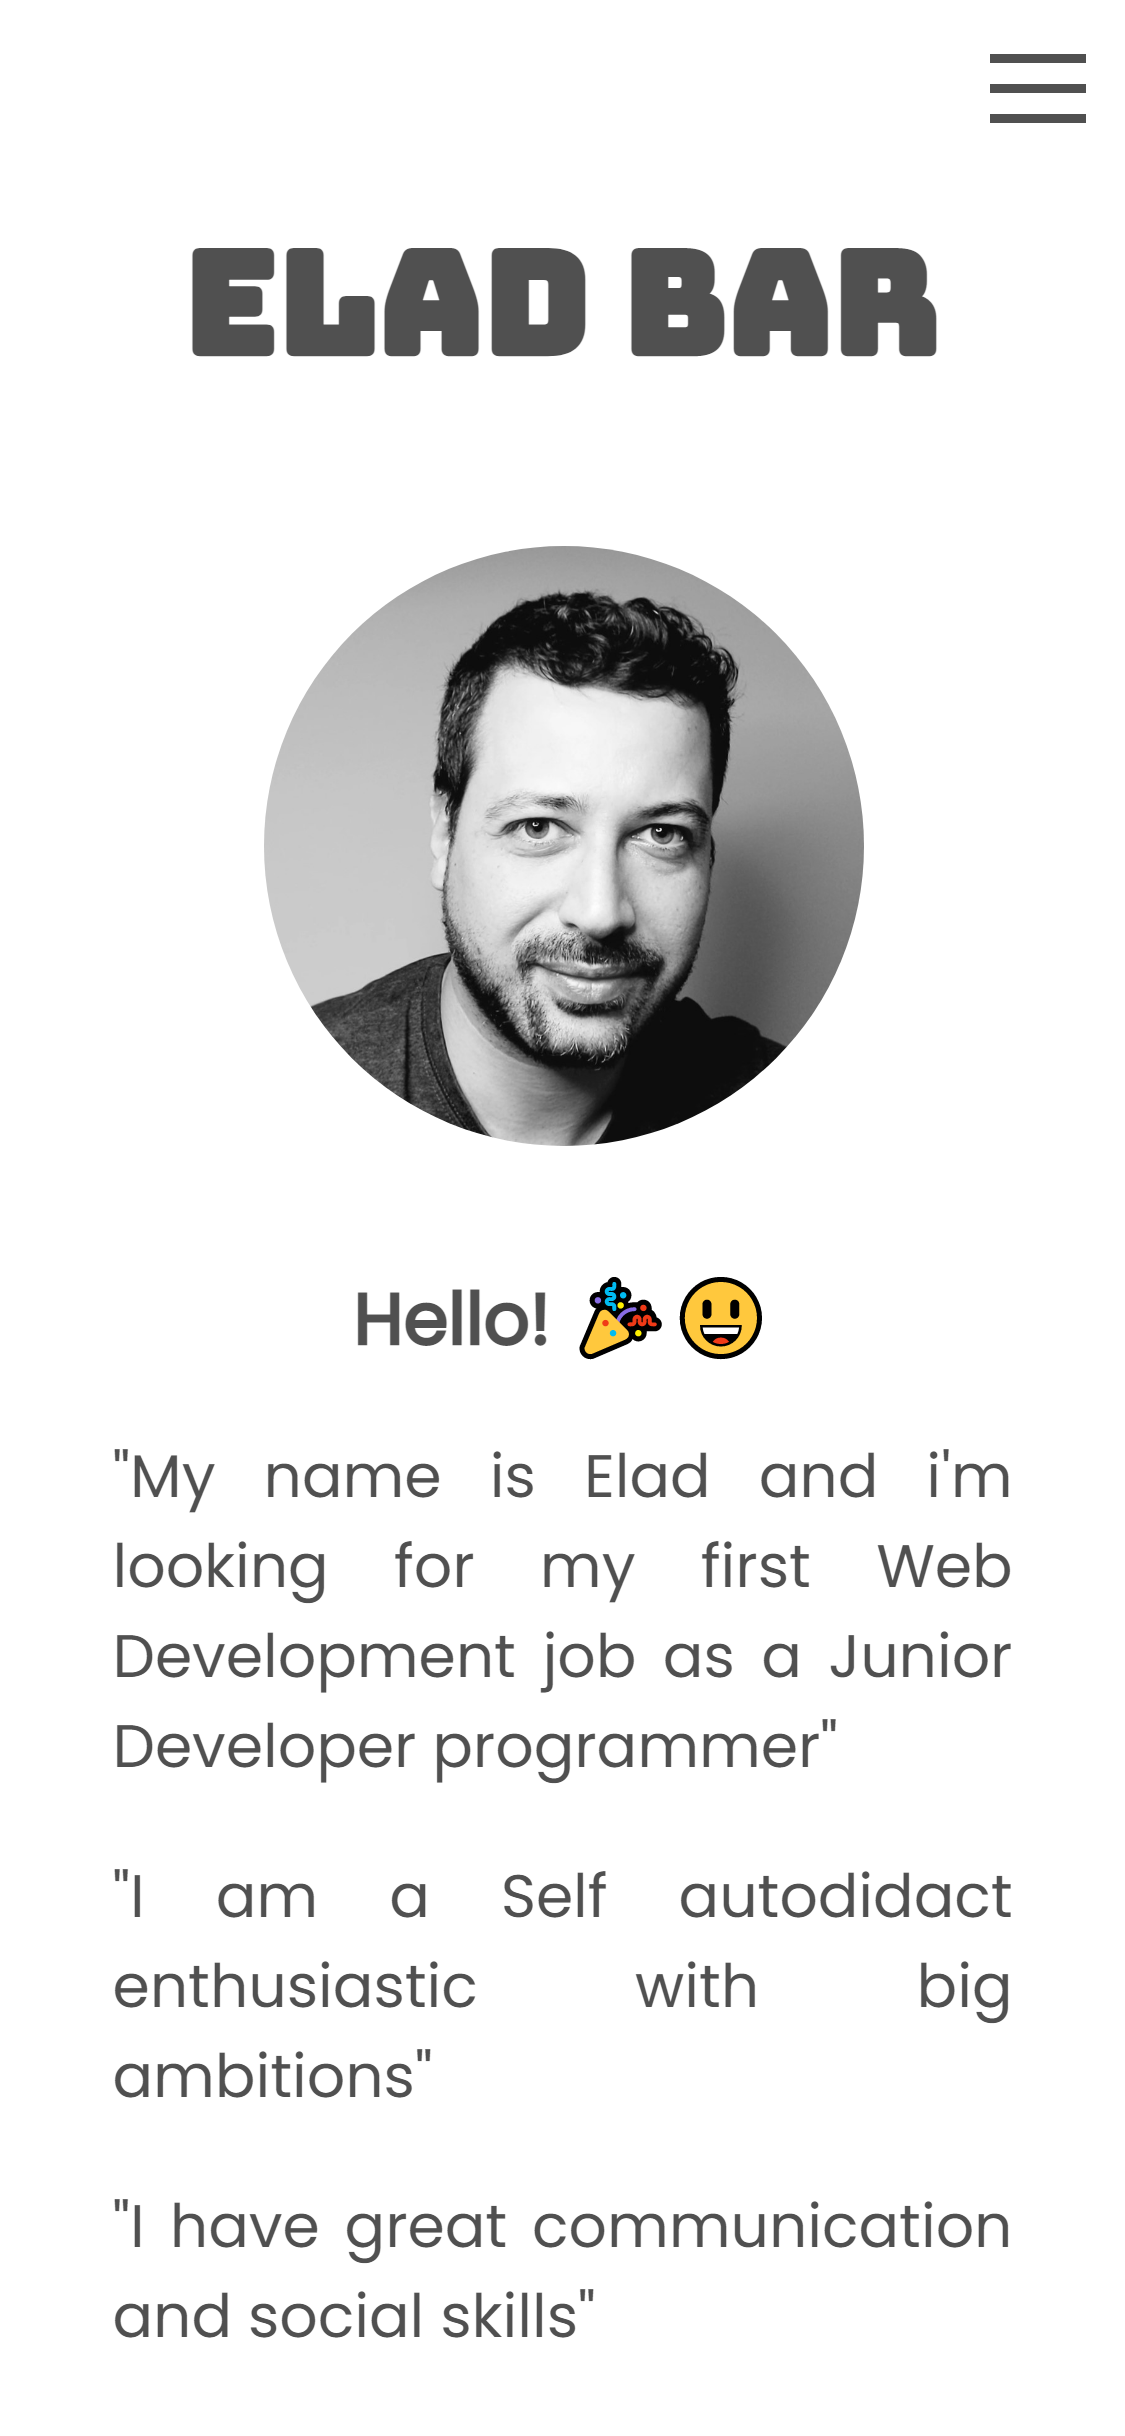
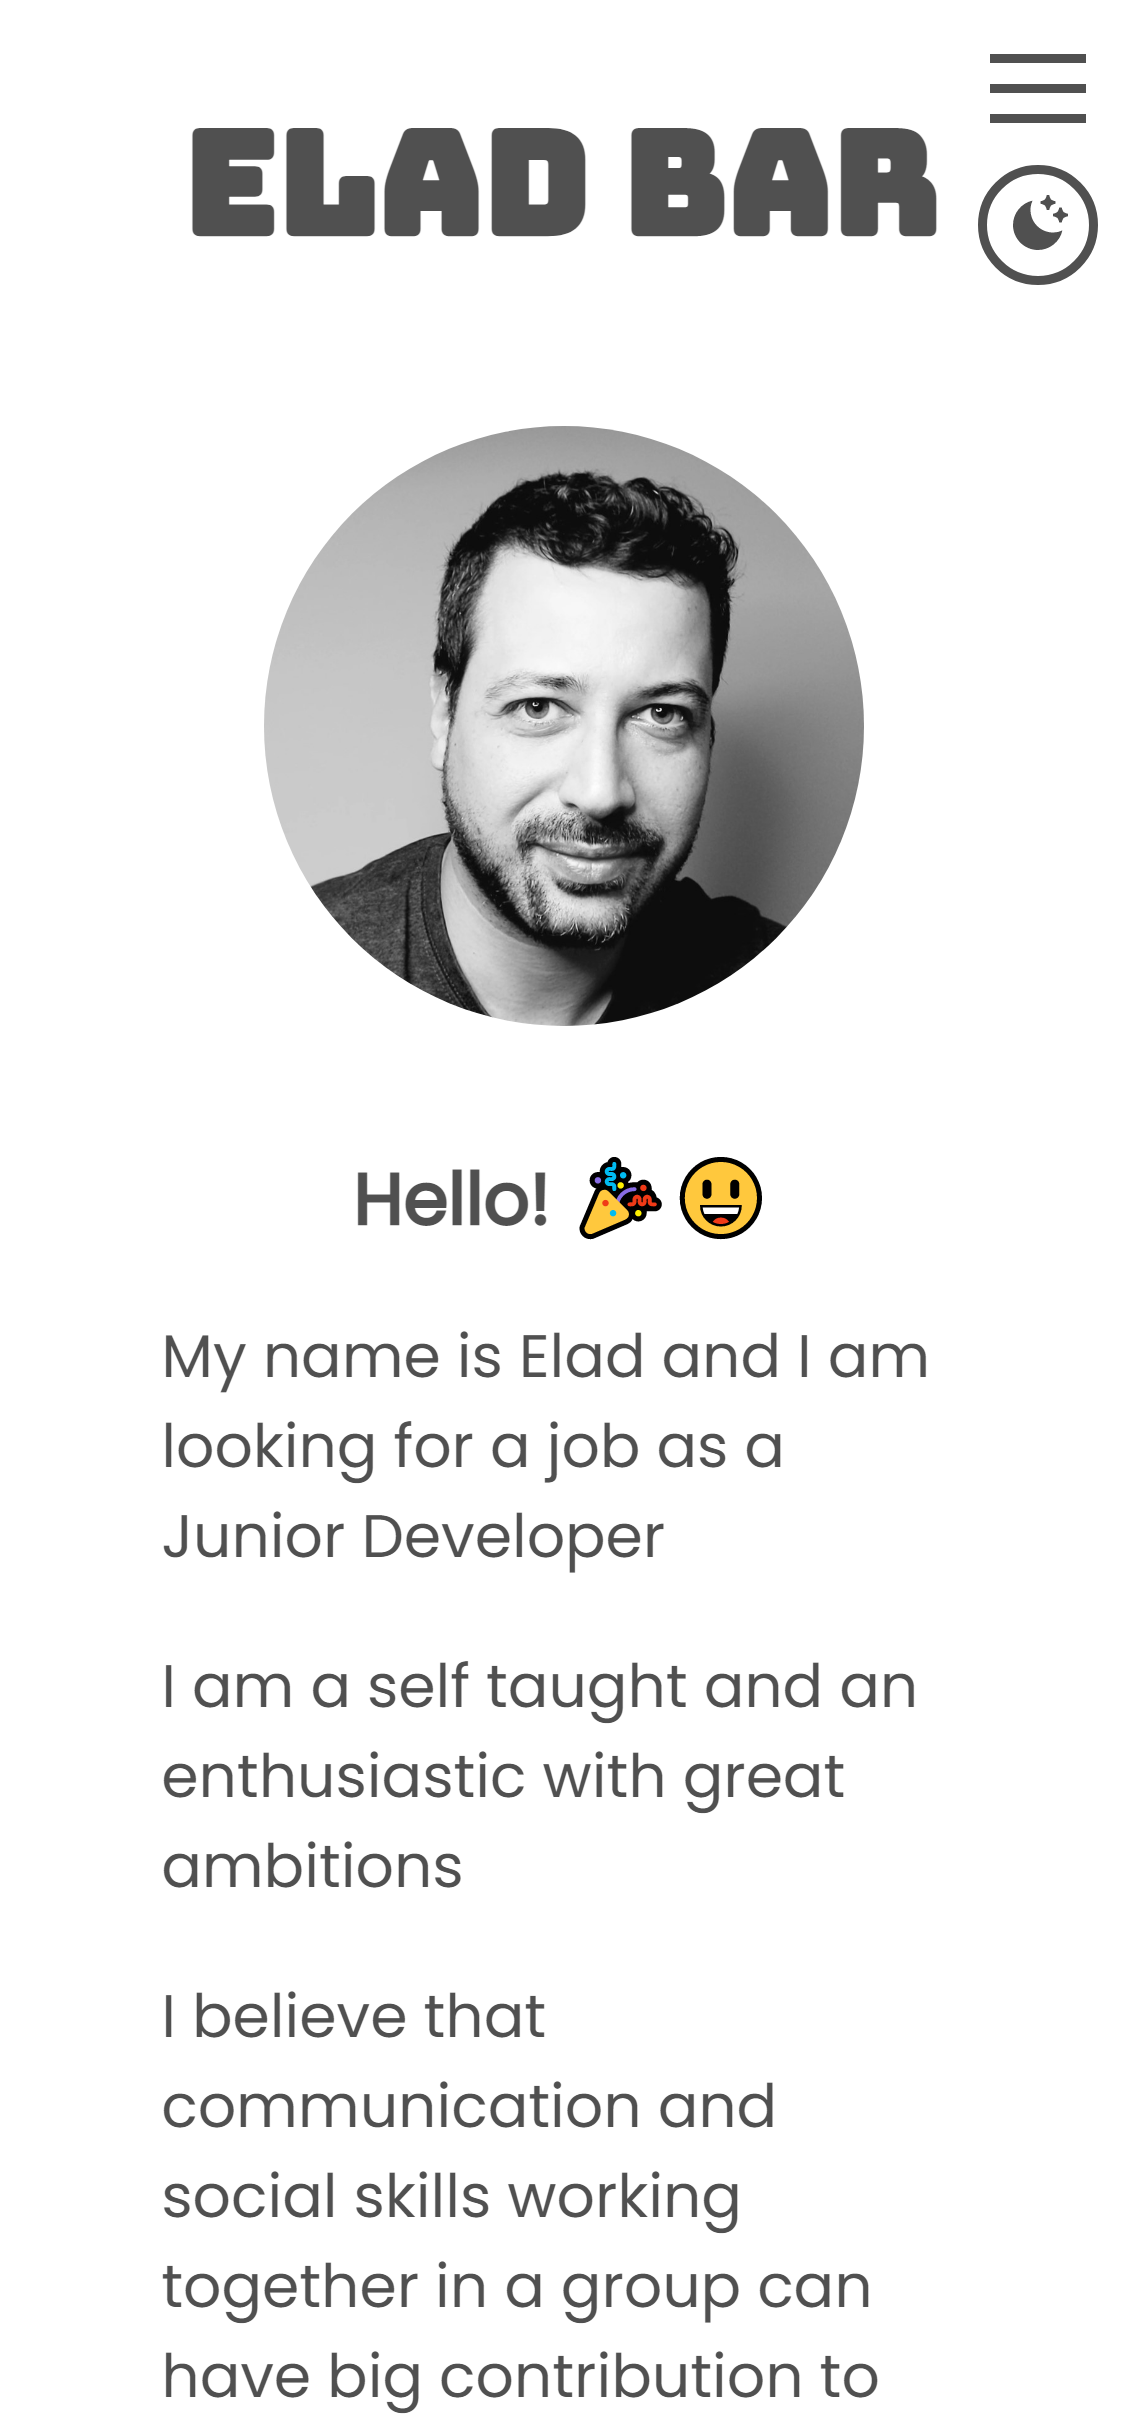
first commit

diff --git a/src/components/Protfolio/cardData.js b/src/components/Protfolio/cardData.js
@@ -4,9 +4,9 @@ export const projectsData = [
         title:"Weather app",
         description:"A widget style appliction that display current weather",
         features:[
-            "A fully Vanilla JS based website",
+            "A fully Vanilla js based website",
             "Using Geolocation in the Browser",
-            "Fetch data from an API using Async/Await",
+            "Fetching data from an API using Async/Await",
             "Using custom weather icones",
         ],
         githubLink:"https://github.com/develad/weather-app",
@@ -20,8 +20,8 @@ export const projectsData = [
         title:"Beer app",
         description:"A Beer Trivia info appliction that interact with the user",
         features:[
-            "Fully REACT JS appliction using Hooks and functional components",
-            "Fetch data from an API using Async/Await",
+            "Fully React js appliction using Hooks and functional components",
+            "Fetching data from an API using Async/Await",
             "Filtering User input data and displying it to the DOM",
             "Advanced css for friendly UI",
         ],
@@ -36,7 +36,7 @@ export const projectsData = [
         title:"Personal portfolio site",
         description:"My personal portfolio site Fully made with REACT JS by me",
         features:[
-            "Fully REACT JS appliction",
+            "Fully React js appliction",
             "Styled ONLY with Styled Components 💅",
             "Animation with framer-motion",
             "Reusable components",

diff --git a/src/components/Home/ProfileBox/textMain.js b/src/components/Home/ProfileBox/textMain.js
@@ -6,9 +6,9 @@
 //     "\"I have great communication and social skills\"",
 // ]
 export const textMain=[
-    "My name is Elad and I am looking for my first job as a Junior Developer",
+    "My name is Elad and I am looking for a job as a Junior Developer",
 
     "I am a self taught and an enthusiastic with great ambitions",
     
-    "I believe that communication and social skills contribute to the success of a developer",
+    "I believe that communication and social skills working together in a group can have big contribution to the success of the development process",
 ]

diff --git a/src/components/Home/ProfileBox/Profilebox.jsx b/src/components/Home/ProfileBox/Profilebox.jsx
@@ -11,7 +11,7 @@ function Profilebox() {
     return (
         <Profile isDark={isDark}>
                 <HeaderTitle>ELAD BAR</HeaderTitle> 
-                    <ProfileImg src="/images/img_01.jpg" alt="logo"/>
+                    <ProfileImg src="/images/img_01A.jpg" alt="logo"/>
                     <ProfileDiv>
                         <Hello>Hello! 🎉😃</Hello>
                         {textMain.map((text,index)=>{
